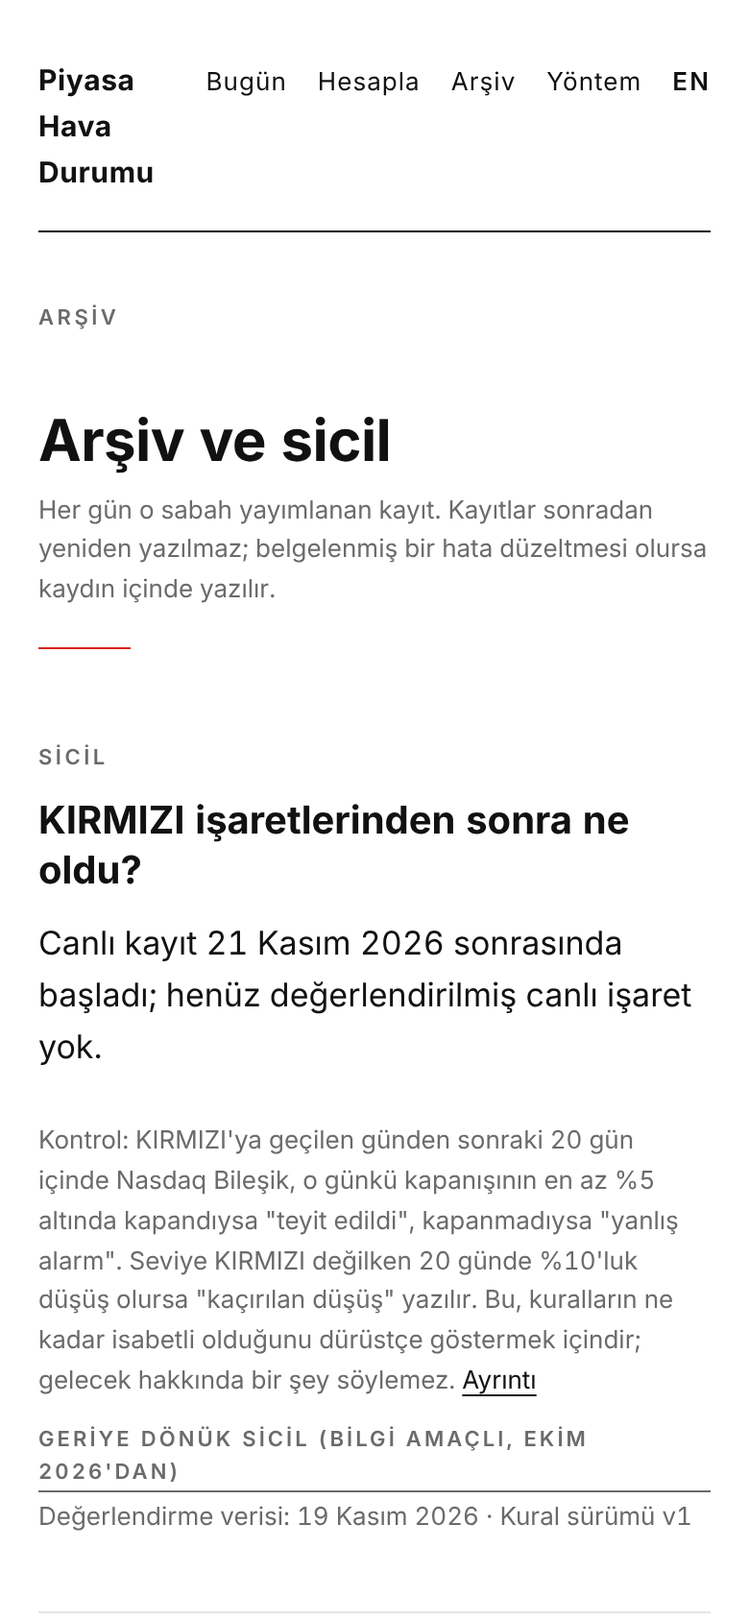
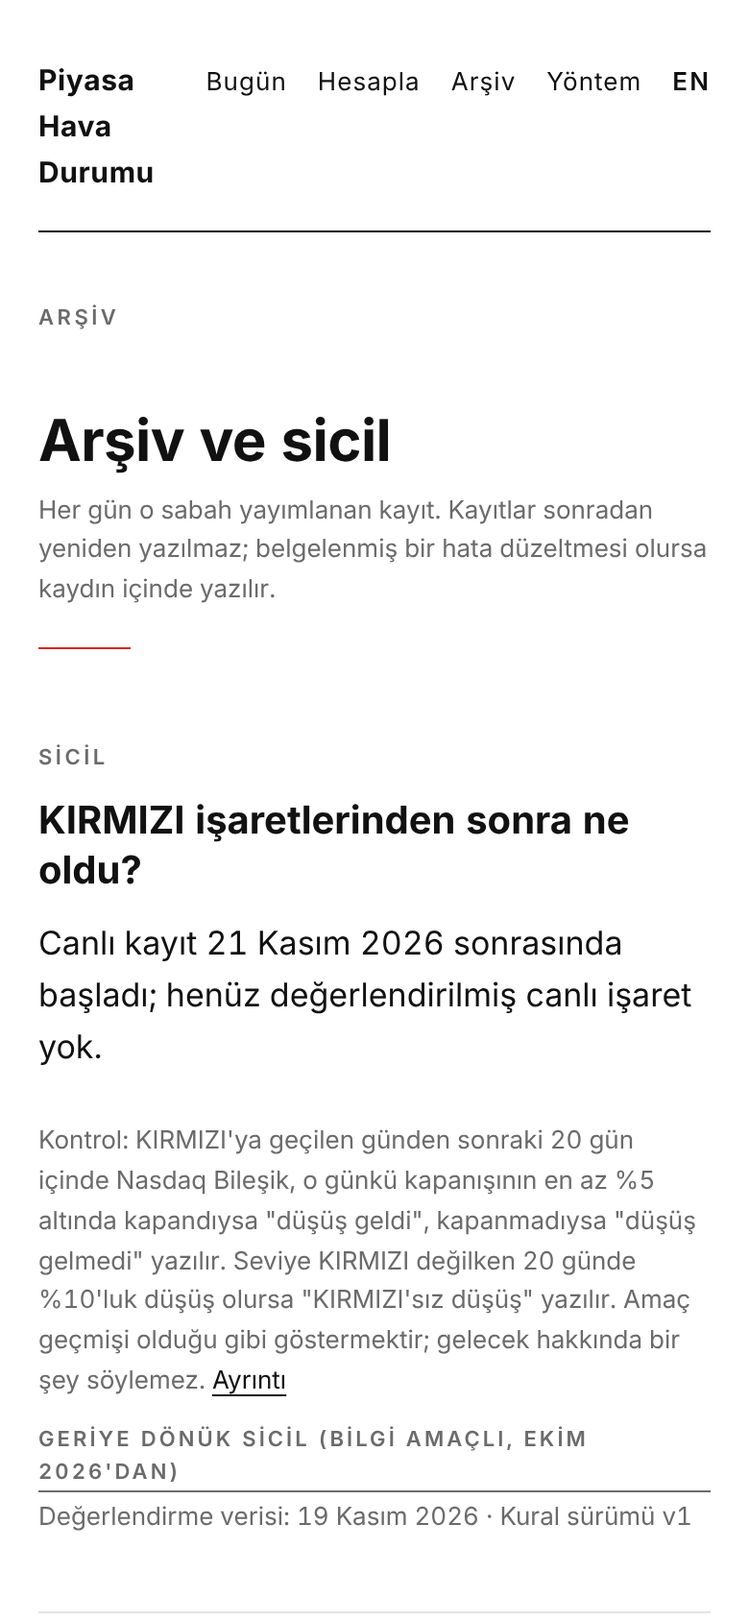
Home order (TL first), neutral track-record words, threshold rationale + level distribution, trimmed questions, v2 rules draft
Claude-Session: https://claude.ai/code/session_01HYDefgn5NWFqFd8ndNssHq

Changed region(s): [[0.0615, 0.7393, 0.9231, 0.8626]]

diff --git a/piyasa/yontem.html b/piyasa/yontem.html
@@ -3,7 +3,7 @@
 <head>
 <meta charset="utf-8">
 <meta name="viewport" content="width=device-width,initial-scale=1">
-<meta http-equiv="Content-Security-Policy" content="default-src 'self'; script-src 'self'; style-src 'self'; font-src 'self'; img-src 'self' data:; base-uri 'self'; form-action 'none'; object-src 'none'">
+<meta http-equiv="Content-Security-Policy" content="default-src 'self'; script-src 'self'; connect-src 'self' https://raw.githubusercontent.com; style-src 'self'; font-src 'self'; img-src 'self' data:; base-uri 'self'; form-action 'none'; object-src 'none'">
 <meta name="referrer" content="strict-origin-when-cross-origin">
 <title>Yöntem — Piyasa Hava Durumu</title>
 <meta name="description" content="Piyasa Hava Durumu makro hava seviyesinin dokuz kuralı, veri kaynakları ve sürüm kuralı, düz Türkçe ile.">
@@ -29,6 +29,7 @@
 <script src="i18n.js"></script>
 <script src="i18n-pages.js"></script>
 <script src="config.js" defer></script>
+<script src="yontem-stats.js" defer></script>
 </head>
 <body>
 <div class="wrap">
@@ -75,6 +76,21 @@
     </section>
 
     <section>
+      <h2 id="esikler">Eşikler neden bu değerler?</h2>
+      <p>Eşikler geçmiş veriye göre en iyi sonucu verecek şekilde ayarlanmadı. Piyasada yaygın kullanılan, yuvarlak ve anlaşılır değerler seçildi, sonra donduruldu. Amaç "geçmişi en iyi açıklayan" değil, önceden bilinen ve değişmeyen bir ölçü.</p>
+      <ul>
+        <li><strong>20 gün:</strong> yaklaşık bir aylık işlem süresi. Tek günlük oynamaları süzer, birkaç aylık eğilimi beklemez.</li>
+        <li><strong>VIX 18:</strong> VIX'in uzun dönem ortalaması 18–20 civarındadır; 18'in üstü piyasada gerginliğin ortalamanın üstünde olduğunu gösterir.</li>
+        <li><strong>Dolar endeksi %1, Nasdaq %3, altın %3:</strong> bu varlıkların bir ayda "olağan oynama" sayılabilecek aralığının biraz üstü.</li>
+        <li><strong>Reel faiz 0,15 puan, kredi primi 0,25 puan:</strong> bir ayda dikkat çeken ama nadir olmayan bir sıkılaşma.</li>
+        <li><strong>Petrol +%10 / −%15:</strong> petrol daha oynak olduğu için daha geniş eşik.</li>
+        <li><strong>Seviye sınırları (0–2, 3–4, 5+):</strong> dokuz kuraldan yarısından fazlası işaret verince KIRMIZI.</li>
+      </ul>
+      <p>Bir eşik değişirse kural sürümü değişir (v1.1, v2…); eski günler eski sürümle kalır.</p>
+      <p id="dagilim" class="mute" data-noi18n>Seviye dağılımı yükleniyor…</p>
+    </section>
+
+    <section>
       <h2>Sürüm ve kayıt</h2>
       <p>Kurallar sabittir. Bir eşik değişirse yeni bir sürüm (v1.1, v2 …) yayımlanır; daha önce yayımlanmış skorlar yeniden yazılmaz. 21 Kasım 2026'dan önceki günler sonradan hesaplanmıştır ve "geriye dönük" olarak işaretlenir; o tarihten sonraki günler "canlı" kayıttır.</p>
       <p>Bir veri 3 iş gününden eskiyse (haftalık Fed verisi için 10 gün) ya da derleme başarısız olursa sayfa "güncellenmedi" yazar ve son iyi veriyi gösterir.</p>
@@ -87,16 +103,16 @@
     </section>
 
     <section>
-      <h2 id="sicil">Sicil: KIRMIZI işaretleri ne kadar isabetli?</h2>
-      <p>Bir kuralın değeri, yanıldığı günlerle birlikte görülünce anlaşılır. Sicil bu yüzden yanlış alarmları da listeler. Kontrol sabittir ve kurallar gibi sürümlüdür:</p>
+      <h2 id="sicil">Sicil: KIRMIZI günlerinden sonra ne oldu?</h2>
+      <p>Bir kuralın değeri, yanıldığı günlerle birlikte görülünce anlaşılır. Sicil bu yüzden arkasından düşüş gelmeyen KIRMIZI günlerini de listeler. Kontrol sabittir ve kurallar gibi sürümlüdür:</p>
       <ul>
         <li><strong>İşaret:</strong> yayımlanan seviyenin KIRMIZI'ya geçtiği gün.</li>
-        <li><strong>Teyit edildi:</strong> sonraki 20 gün içinde Nasdaq Bileşik endeksi, işaret günündeki kapanışının en az %5 altında kapandı.</li>
-        <li><strong>Yanlış alarm:</strong> 20 gün geçti ve bu düşüş olmadı.</li>
+        <li><strong>Düşüş geldi:</strong> sonraki 20 gün içinde Nasdaq Bileşik endeksi, işaret günündeki kapanışının en az %5 altında kapandı.</li>
+        <li><strong>Düşüş gelmedi:</strong> 20 gün geçti ve bu düşüş olmadı.</li>
         <li><strong>Bekliyor:</strong> 20 gün henüz dolmadı.</li>
-        <li><strong>Kaçırılan düşüş:</strong> Nasdaq Bileşik son 20 günün en yüksek kapanışından en az %10 aşağıda kapandı ve bu 20 günün hiçbirinde seviye KIRMIZI değildi.</li>
+        <li><strong>KIRMIZI'sız düşüş:</strong> Nasdaq Bileşik son 20 günün en yüksek kapanışından en az %10 aşağıda kapandı ve bu 20 günün hiçbirinde seviye KIRMIZI değildi.</li>
       </ul>
-      <p>Canlı sicil 21 Kasım 2026'dan sonra yayımlanan kayıtlarla başlar. Daha önceki günler sonradan hesaplandığı için ayrı ve "bilgi amaçlı" gösterilir. Nasdaq Bileşik lisanslı bir endeks olduğundan değerleri yayımlanmaz; yalnız sonuç kelimesi yayımlanır. Bu kontrol bir isabet ölçüsüdür; gelecek hakkında bir şey söylemez ve tavsiye değildir.</p>
+      <p>Canlı sicil 21 Kasım 2026'dan sonra yayımlanan kayıtlarla başlar. Daha önceki günler sonradan hesaplandığı için ayrı ve "bilgi amaçlı" gösterilir. Nasdaq Bileşik lisanslı bir endeks olduğundan değerleri yayımlanmaz; yalnız sonuç kelimesi yayımlanır. Bu kontrol yalnız geçmişi kaydeder; gelecek hakkında bir şey söylemez ve tavsiye değildir.</p>
     </section>
 
     <section>
@@ -172,6 +188,21 @@
     </section>
 
     <section>
+      <h2 id="en-esikler">Why these thresholds?</h2>
+      <p>The thresholds were not tuned to fit past data. Common, round, easy-to-read levels were chosen and then frozen. The aim is a measure that is known in advance and does not change, not one that "best explains the past".</p>
+      <ul>
+        <li><strong>20 days:</strong> about one month of trading. It filters one-day noise without waiting for multi-month trends.</li>
+        <li><strong>VIX 18:</strong> the long-run VIX average is around 18–20; above 18 means tension is above average.</li>
+        <li><strong>Dollar index 1%, Nasdaq 3%, gold 3%:</strong> a little beyond what counts as a normal one-month move for these assets.</li>
+        <li><strong>Real yield 0.15 points, credit spread 0.25 points:</strong> a tightening that stands out within a month but is not rare.</li>
+        <li><strong>Oil +10% / −15%:</strong> oil is more volatile, so the band is wider.</li>
+        <li><strong>Level bands (0–2, 3–4, 5+):</strong> RED when more than half of the nine rules signal.</li>
+      </ul>
+      <p>If a threshold changes, the rules version changes (v1.1, v2…); past days keep the version they were published with.</p>
+      <p id="en-dagilim" class="mute">Loading level distribution…</p>
+    </section>
+
+    <section>
       <h2>Versions and record</h2>
       <p>The rules are fixed. If a threshold changes, a new version (v1.1, v2 …) is published; scores already published are never rewritten. Days before 21 November 2026 were computed afterwards and are marked "retro"; days after that date are the "live" record.</p>
       <p>If an input is older than 3 business days (10 days for the weekly Fed data) or the build fails, the page says "not updated" and shows the last good data.</p>
@@ -184,16 +215,16 @@
     </section>
 
     <section>
-      <h2 id="en-sicil">Track record: how accurate are RED signals?</h2>
-      <p>A rule's value shows only together with the days it was wrong, so the track record lists false alarms too. The check is fixed and versioned like the rules:</p>
+      <h2 id="en-sicil">Track record: what happened after RED days?</h2>
+      <p>A rule's value shows only together with the days it was wrong, so the track record also lists RED days that were not followed by a fall. The check is fixed and versioned like the rules:</p>
       <ul>
         <li><strong>Signal:</strong> the day the published level switched to RED.</li>
-        <li><strong>Confirmed:</strong> within the next 20 days the Nasdaq Composite closed at least 5% below its close on the signal day.</li>
-        <li><strong>False alarm:</strong> 20 days passed without that fall.</li>
+        <li><strong>Fall followed:</strong> within the next 20 days the Nasdaq Composite closed at least 5% below its close on the signal day.</li>
+        <li><strong>No fall followed:</strong> 20 days passed without that fall.</li>
         <li><strong>Pending:</strong> 20 days have not passed yet.</li>
-        <li><strong>Missed fall:</strong> the Nasdaq Composite closed at least 10% below its highest close of the last 20 days and the level was not RED on any of those 20 days.</li>
+        <li><strong>Fall without RED:</strong> the Nasdaq Composite closed at least 10% below its highest close of the last 20 days and the level was not RED on any of those 20 days.</li>
       </ul>
-      <p>The live record starts with records published after 21 November 2026. Earlier days were computed afterwards and are shown separately "for information". The Nasdaq Composite is a licensed index, so its values are not published; only the result word is. This check measures accuracy; it says nothing about the future and is not advice.</p>
+      <p>The live record starts with records published after 21 November 2026. Earlier days were computed afterwards and are shown separately "for information". The Nasdaq Composite is a licensed index, so its values are not published; only the result word is. This check only records the past; it says nothing about the future and is not advice.</p>
     </section>
 
     <section>

diff --git a/piyasa/index.html b/piyasa/index.html
@@ -46,10 +46,23 @@
   </header>
   <div class="band" id="band" aria-label="Piyasa bandı: 1 günlük değişim" role="region" hidden></div>
   <main id="main">
+    <section aria-labelledby="l-tl">
+      <p class="label" id="l-tl">TL tarafı</p>
+      <p class="tl-link top"><a href="hesapla.html">Benim pozisyonum ne durumda? Maliyetini gir, başa baş fiyatını gör</a></p>
+      <div id="tl" class="tl"><p class="mute small">TL verisi yükleniyor…</p></div>
+    </section>
+
+    <section id="s-ozet" aria-labelledby="l-ozet" hidden>
+      <p class="label" id="l-ozet">Günün özeti</p>
+      <div id="ozet"></div>
+      <p class="mute small" id="ozet-meta"></p>
+    </section>
+
+    <hr class="rule-top">
     <p class="label" id="kicker">Makro hava</p>
     <h1 id="headline"><span class="dot" aria-hidden="true"></span><span id="headline-text"><!--S:headline-->Veri yükleniyor…<!--/S--></span></h1>
     <p class="meta" id="meta"><!--S:meta--><!--/S--></p>
-    <p class="frame">Seviye, dokuz piyasa göstergesinden kaçının stres işareti verdiğini özetler; ne yapılacağını söylemez ve geçmişte yanlış alarm da vermiştir (<a href="arsiv.html#sicil">Sicil</a>). Makro veriler ABD kaynaklıdır ve bir iş günü gecikmeli gelir.</p>
+    <p class="frame">Seviye, dokuz piyasa göstergesinden kaçının stres işareti verdiğini özetler; ne yapılacağını söylemez ve KIRMIZI günlerinin hepsini bir düşüş izlemedi (<a href="arsiv.html#sicil">Sicil</a>). Makro veriler ABD kaynaklıdır ve bir iş günü gecikmeli gelir.</p>
     <div class="datepick" id="datepick">
       <label for="tarih" class="label">Tarih seç</label>
       <input type="date" id="tarih" min="2026-10-01" aria-describedby="tarih-not">
@@ -70,53 +83,22 @@
       </details>
     </section>
 
-    <section aria-labelledby="l-tl">
-      <p class="label" id="l-tl">TL tarafı</p>
-      <div id="tl" class="tl"><p class="mute small">TL verisi yükleniyor…</p></div>
-      <p class="tl-link"><a href="hesapla.html">Benim pozisyonum ne durumda?</a></p>
-    </section>
-
-    <section id="s-ozet" aria-labelledby="l-ozet" hidden>
-      <p class="label" id="l-ozet">Günün özeti</p>
-      <div id="ozet"></div>
-      <p class="mute small" id="ozet-meta"></p>
-    </section>
-
-    <section aria-labelledby="l-hafta">
-      <p class="label" id="l-hafta">Bu hafta</p>
-      <p class="hafta-link"><a href="hafta.html" id="hafta-link">Dünyada bu hafta: geçmiş yıllarda bu hafta ne oldu?</a></p>
-      <p class="mute small">Her pazartesi ve cuma: aynı haftanın son 10 yıldaki seyri, haftanın veri takvimi ve ekonomi tarihinden notlar.</p>
-    </section>
-
-    <section aria-labelledby="l-konum">
-      <p class="label" id="l-konum">Ortalamalar</p>
-      <p class="konum-link"><a href="konum.html">Fiyatlar ortalamalarına göre nerede?</a></p>
-      <p class="mute small">BIST 100, gram altın, dolar/TL, ABD fonları, Bitcoin, Ethereum ve büyük şirketler: 20, 50 ve 200 günlük ortalamaya göre konum.</p>
-    </section>
-
-    <section aria-labelledby="l-cmp">
-      <p class="label" id="l-cmp">Grafik</p>
-      <p class="konum-link"><a href="karsilastir.html">Grafikte karşılaştır</a></p>
-      <p class="mute small">Altın, gümüş, dolar/TL, petrol, BIST 100, Bitcoin ve ABD fonlarından 2–3 tanesini aynı grafikte gör ya da birbirine oranla (ör. altın/gümüş oranı).</p>
-    </section>
-
-    <section aria-labelledby="l-hareket">
-      <p class="label" id="l-hareket">Günün hareketlileri</p>
-      <p class="konum-link"><a href="hareket.html">Bugün piyasada neler oldu?</a></p>
-      <p class="mute small">Borsa İstanbul, ABD ve kriptoda en çok yükselen ve düşen isimler, olağandışı hacim ve hareketler.</p>
-    </section>
-
-    <section aria-labelledby="l-dunya">
-      <p class="label" id="l-dunya">Dünya</p>
-      <p class="konum-link"><a href="dunya.html">Dünyada durum ne?</a></p>
-      <p class="mute small">Japonya, Kore, Çin, Hong Kong, Tayvan, Brezilya, emtialar ve günün başlıkları. Sayfa yalnız açılınca yüklenir.</p>
-    </section>
-
     <section aria-labelledby="l-sor">
-      <p class="label" id="l-sor">Sor</p>
+      <p class="label" id="l-sor">Sorular</p>
       <div class="questions" id="questions"></div>
       <div class="answer" id="answer" aria-live="polite"></div>
       <p class="mute small">Cevaplar her sabah verilerle birlikte hazırlanır; sayılar doğrudan veriden gelir.</p>
+    </section>
+
+    <section aria-labelledby="l-daha">
+      <p class="label" id="l-daha">Daha fazlası</p>
+      <ul class="more">
+        <li><a href="hareket.html">Bugün piyasada neler oldu?</a> <span class="mute small">Borsa İstanbul, ABD ve kriptoda günün hareketlileri.</span></li>
+        <li><a href="dunya.html">Dünyada durum ne?</a> <span class="mute small">Asya, Brezilya, emtialar ve günün başlıkları.</span></li>
+        <li><a href="hafta.html" id="hafta-link">Dünyada bu hafta</a> <span class="mute small">Geçmiş yıllarda bu hafta ne oldu (pazartesi ve cuma).</span></li>
+        <li><a href="konum.html">Fiyatlar ortalamalarına göre nerede?</a> <span class="mute small">20, 50 ve 200 günlük ortalamaya göre konum.</span></li>
+        <li><a href="karsilastir.html">Grafikte karşılaştır</a> <span class="mute small">2–3 varlık aynı grafikte ya da oran olarak.</span></li>
+      </ul>
     </section>
   </main>
   <aside class="dside" id="dunya-side" aria-label="Dünya özeti" hidden></aside>

diff --git a/piyasa/arsiv.js b/piyasa/arsiv.js
@@ -19,7 +19,9 @@
     TITLES = { L1: "Stablecoin supply", L2: "Fed net liquidity", L3: "Real yield", D1: "Dollar index",
       K1: "Credit risk premium", K2: "Volatility (VIX)", K3: "Nasdaq Composite", N1: "Gold and the dollar", P1: "Oil" };
   }
-  var RESULT_EN = { "teyit edildi": "confirmed", "yanlış alarm": "false alarm", "bekliyor": "pending", "kaçırılan": "missed" };
+  // Display words (Boran, 22 Kasım: neutral wording). sicil.json keeps its stored codes; only the label changes.
+  var RESULT_TR = { "teyit edildi": "düşüş geldi", "yanlış alarm": "düşüş gelmedi", "bekliyor": "bekliyor", "kaçırılan": "KIRMIZI'sız düşüş", "kaçırılan düşüş": "KIRMIZI'sız düşüş" };
+  var RESULT_EN = { "teyit edildi": "fall followed", "yanlış alarm": "no fall followed", "bekliyor": "pending", "kaçırılan": "fall without RED", "kaçırılan düşüş": "fall without RED" };
 
   function $(id) { return document.getElementById(id); }
   function el(tag, cls, text) {
@@ -113,7 +115,7 @@
       var tr = el("tr", e.result === "yanlış alarm" || e.kind === "kaçırılan" ? "miss" : "");
       tr.appendChild(el("td", "d", trDate(e.date)));
       tr.appendChild(el("td", null, e.kind === "kaçırılan" ? L("Düşüş (seviye ", "Drop (level ") + (WORD[e.level] || "—") + ")" : L("KIRMIZI'ya geçiş", "Switch to RED")));
-      tr.appendChild(el("td", "r", EN ? (RESULT_EN[e.result] || RESULT_EN[e.kind] || e.result) : e.result));
+      tr.appendChild(el("td", "r", EN ? (RESULT_EN[e.result] || RESULT_EN[e.kind] || e.result) : (RESULT_TR[e.result] || RESULT_TR[e.kind] || e.result)));
       tr.appendChild(el("td", "x", resultText(e)));
       tb.appendChild(tr);
     });
@@ -128,13 +130,13 @@
     var sm = s.summary_live || {};
     $("sicil-sum").textContent = EN ? (live.length
       ? "Live record (since " + trDate(s.freeze_date) + "): " + (sm.canli_sinyal || 0) + " switches to RED — " +
-        (sm.canli_teyit || 0) + " confirmed, " + (sm.canli_yanlis_alarm || 0) + " false alarms, " +
-        (sm.canli_bekliyor || 0) + " pending; " + (sm.canli_kacirilan || 0) + " missed drops."
+        (sm.canli_teyit || 0) + " followed by a fall, " + (sm.canli_yanlis_alarm || 0) + " not followed by a fall, " +
+        (sm.canli_bekliyor || 0) + " pending; " + (sm.canli_kacirilan || 0) + " falls without RED."
       : "The live record started after " + trDate(s.freeze_date) + "; no live signal has been evaluated yet.")
       : live.length
       ? "Canlı kayıt (" + trDate(s.freeze_date) + "'ten beri): " + (sm.canli_sinyal || 0) + " KIRMIZI geçişi — " +
-        (sm.canli_teyit || 0) + " teyit edildi, " + (sm.canli_yanlis_alarm || 0) + " yanlış alarm, " +
-        (sm.canli_bekliyor || 0) + " bekliyor; " + (sm.canli_kacirilan || 0) + " kaçırılan düşüş."
+        (sm.canli_teyit || 0) + " ardından düşüş geldi, " + (sm.canli_yanlis_alarm || 0) + " düşüş gelmedi, " +
+        (sm.canli_bekliyor || 0) + " bekliyor; " + (sm.canli_kacirilan || 0) + " KIRMIZI'sız düşüş."
       : "Canlı kayıt " + trDate(s.freeze_date) + " sonrasında başladı; henüz değerlendirilmiş canlı işaret yok.";
     sicilTable(live, $("sicil-live"));
     sicilTable(retro, $("sicil-retro"));

diff --git a/piyasa/yontem-stats.js b/piyasa/yontem-stats.js
@@ -1,0 +1,49 @@
+/* Piyasa Hava Durumu — level distribution on the method page. Reads data/site/history.csv; DOM APIs only. */
+(function () {
+  "use strict";
+  var RAW = "https://raw.githubusercontent.com/samiboran/sweeplab/data-feed/data/site/";
+  var DATA = /\.github\.io$/.test(location.hostname) ? RAW : "data/site/";
+  var LV = ["YESIL", "SARI", "KIRMIZI"];
+  var TR = { YESIL: "YEŞİL", SARI: "SARI", KIRMIZI: "KIRMIZI" }, EN = { YESIL: "GREEN", SARI: "YELLOW", KIRMIZI: "RED" };
+  var MTR = ["Ocak", "Şubat", "Mart", "Nisan", "Mayıs", "Haziran", "Temmuz", "Ağustos", "Eylül", "Ekim", "Kasım", "Aralık"];
+  var MEN = ["January", "February", "March", "April", "May", "June", "July", "August", "September", "October", "November", "December"];
+  function fmt(iso, en) {
+    var m = /^(\d{4})-(\d{2})-(\d{2})$/.exec(iso || "");
+    return m ? (+m[3]) + " " + (en ? MEN : MTR)[+m[2] - 1] + " " + m[1] : "—";
+  }
+  function count(rows) {
+    var c = { YESIL: 0, SARI: 0, KIRMIZI: 0 }, n = 0;
+    rows.forEach(function (r) { if (c.hasOwnProperty(r.level)) { c[r.level]++; n++; } });
+    return { c: c, n: n };
+  }
+  function line(k, en) {
+    if (!k.n) return en ? "none yet" : "henüz yok";
+    return LV.map(function (l) {
+      var pct = Math.round(k.c[l] / k.n * 100);
+      return (en ? EN[l] : TR[l]) + " " + k.c[l] + (en ? " days (" + pct + "%)" : " gün (%" + pct + ")");
+    }).join(", ");
+  }
+  function render(rows) {
+    var retro = count(rows.filter(function (r) { return r.mode !== "live"; }));
+    var live = count(rows.filter(function (r) { return r.mode === "live"; }));
+    var first = rows.length ? rows[0].date : "";
+    var tr = document.getElementById("dagilim"), en = document.getElementById("en-dagilim");
+    if (tr) tr.textContent = "Yayımlanan seviyeler (" + fmt(first) + " ile bugün arası) — geriye dönük: " + line(retro) +
+      ". Canlı: " + line(live) + ". Kısa bir dönem olduğu için oranlar genellenemez.";
+    if (en) en.textContent = "Published levels so far (since " + fmt(first, true) + ") — retrospective: " + line(retro, true) +
+      ". Live: " + line(live, true) + ". The period is short, so the shares do not generalise.";
+  }
+  fetch(DATA + "history.csv", { cache: "no-cache", credentials: "omit", referrerPolicy: "no-referrer" })
+    .then(function (r) { if (!r.ok) throw new Error(r.status); return r.text(); })
+    .then(function (t) {
+      var lines = t.trim().split(/\r?\n/), head = lines.shift().split(",");
+      var iD = head.indexOf("date"), iM = head.indexOf("mode"), iL = head.indexOf("level");
+      render(lines.map(function (l) { var c = l.split(","); return { date: c[iD], mode: c[iM], level: c[iL] }; })
+        .filter(function (r) { return /^\d{4}-\d{2}-\d{2}$/.test(r.date || ""); }));
+    })
+    .catch(function () {
+      var tr = document.getElementById("dagilim"), en = document.getElementById("en-dagilim");
+      if (tr) tr.textContent = "Seviye dağılımı şu an yüklenemedi; günler Arşiv sayfasında.";
+      if (en) en.textContent = "The level distribution could not be loaded; see the Archive page.";
+    });
+})();

diff --git a/piyasa/i18n.js b/piyasa/i18n.js
@@ -17,8 +17,8 @@
   var D = {
     // masthead, nav, footer
     "İstatistik yalan söylemez": "Statistics don't lie",
-    "Seviye, dokuz piyasa göstergesinden kaçının stres işareti verdiğini özetler; ne yapılacağını söylemez ve geçmişte yanlış alarm da vermiştir (":
-      "The level summarises how many of nine market indicators show stress; it does not say what to do, and it has given false alarms before (",
+    "Seviye, dokuz piyasa göstergesinden kaçının stres işareti verdiğini özetler; ne yapılacağını söylemez ve KIRMIZI günlerinin hepsini bir düşüş izlemedi (":
+      "The level summarises how many of nine market indicators show stress; it does not say what to do, and not every RED day was followed by a fall (",
     "Sicil": "Track record",
     "). Makro veriler ABD kaynaklıdır ve bir iş günü gecikmeli gelir.": "). Macro inputs come from US sources and arrive one business day late.",
     "Site": "Site", "Hesapla": "Calculator", "Arşiv": "Archive", "Yöntem": "Method", "Bugün": "Today",
@@ -55,7 +55,14 @@
     "Dünya": "World", "Dünyada durum ne?": "How is the world doing?",
     "Japonya, Kore, Çin, Hong Kong, Tayvan, Brezilya, emtialar ve günün başlıkları. Sayfa yalnız açılınca yüklenir.":
       "Japan, Korea, China, Hong Kong, Taiwan, Brazil, commodities and the day's headlines. Loaded only when opened.",
-    "Sor": "Ask",
+    "Sor": "Ask", "Sorular": "Questions", "Daha fazlası": "More",
+    "Dünyada bu hafta": "This week in the world",
+    "Benim pozisyonum ne durumda? Maliyetini gir, başa baş fiyatını gör": "How is my position doing? Enter your cost, see your breakeven price",
+    "Borsa İstanbul, ABD ve kriptoda günün hareketlileri.": "Today's movers on Borsa Istanbul, in the US and in crypto.",
+    "Asya, Brezilya, emtialar ve günün başlıkları.": "Asia, Brazil, commodities and today's headlines.",
+    "Geçmiş yıllarda bu hafta ne oldu (pazartesi ve cuma).": "What happened this week in past years (Mondays and Fridays).",
+    "20, 50 ve 200 günlük ortalamaya göre konum.": "Position versus the 20-, 50- and 200-day averages.",
+    "2–3 varlık aynı grafikte ya da oran olarak.": "2–3 assets on one chart, or as a ratio.",
     "Cevaplar her sabah verilerle birlikte hazırlanır; sayılar doğrudan veriden gelir.":
       "Answers are prepared every morning with the data; every number comes straight from the data.",
     "Dünya özeti": "World summary",

diff --git a/piyasa/i18n-pages.js b/piyasa/i18n-pages.js
@@ -27,8 +27,8 @@
     "Sicil": "Track record",
     "KIRMIZI işaretlerinden sonra ne oldu?": "What happened after RED signals?",
     "Sicil yükleniyor…": "Loading track record…",
-    "Kontrol: KIRMIZI'ya geçilen günden sonraki 20 gün içinde Nasdaq Bileşik, o günkü kapanışının en az %5 altında kapandıysa \"teyit edildi\", kapanmadıysa \"yanlış alarm\". Seviye KIRMIZI değilken 20 günde %10'luk düşüş olursa \"kaçırılan düşüş\" yazılır. Bu, kuralların ne kadar isabetli olduğunu dürüstçe göstermek içindir; gelecek hakkında bir şey söylemez.":
-      "Check: if within 20 days of a switch to RED the Nasdaq Composite closed at least 5% below that day's close, the signal is \"confirmed\"; otherwise it is a \"false alarm\". A 10% drop within 20 days while the level was not RED is listed as a \"missed drop\". This shows honestly how accurate the rules have been; it says nothing about the future.",
+    "Kontrol: KIRMIZI'ya geçilen günden sonraki 20 gün içinde Nasdaq Bileşik, o günkü kapanışının en az %5 altında kapandıysa \"düşüş geldi\", kapanmadıysa \"düşüş gelmedi\" yazılır. Seviye KIRMIZI değilken 20 günde %10'luk düşüş olursa \"KIRMIZI'sız düşüş\" yazılır. Amaç geçmişi olduğu gibi göstermektir; gelecek hakkında bir şey söylemez.":
+      "Check: if within 20 days of a switch to RED the Nasdaq Composite closed at least 5% below that day's close, the entry says \"fall followed\"; otherwise \"no fall followed\". A 10% drop within 20 days while the level was not RED is listed as \"fall without RED\". The aim is to show the past as it was; it says nothing about the future.",
     "Geriye dönük sicil (bilgi amaçlı, Ekim 2026'dan)": "Retro track record (for information, from October 2026)",
     "Bu günler kurallar donmadan önce, sonradan hesaplandı. Canlı sicile sayılmaz.":
       "These days were computed afterwards, before the rules were frozen. They do not count towards the live record.",

diff --git a/piyasa/arsiv.html b/piyasa/arsiv.html
@@ -52,7 +52,7 @@
       <h2 class="sh">KIRMIZI işaretlerinden sonra ne oldu?</h2>
       <p id="sicil-sum"><!--S:sicil-sum-->Sicil yükleniyor…<!--/S--></p>
       <div id="sicil-live" class="tablewrap"></div>
-      <p class="mute small">Kontrol: KIRMIZI'ya geçilen günden sonraki 20 gün içinde Nasdaq Bileşik, o günkü kapanışının en az %5 altında kapandıysa "teyit edildi", kapanmadıysa "yanlış alarm". Seviye KIRMIZI değilken 20 günde %10'luk düşüş olursa "kaçırılan düşüş" yazılır. Bu, kuralların ne kadar isabetli olduğunu dürüstçe göstermek içindir; gelecek hakkında bir şey söylemez. <a href="yontem.html#sicil">Ayrıntı</a></p>
+      <p class="mute small">Kontrol: KIRMIZI'ya geçilen günden sonraki 20 gün içinde Nasdaq Bileşik, o günkü kapanışının en az %5 altında kapandıysa "düşüş geldi", kapanmadıysa "düşüş gelmedi" yazılır. Seviye KIRMIZI değilken 20 günde %10'luk düşüş olursa "KIRMIZI'sız düşüş" yazılır. Amaç geçmişi olduğu gibi göstermektir; gelecek hakkında bir şey söylemez. <a href="yontem.html#sicil">Ayrıntı</a></p>
       <div id="sicil-retro-wrap" hidden>
         <details class="wk-d">
           <summary>Geriye dönük sicil (bilgi amaçlı, Ekim 2026'dan)</summary>

diff --git a/piyasa/style.css b/piyasa/style.css
@@ -348,3 +348,10 @@ html[data-ui-lang="en"] [data-lang="en"]{display:block}
 .band-x{flex-wrap:wrap;column-gap:6px;row-gap:0}}
 .frame{margin:6px 0 10px;font-size:13px;line-height:1.5;color:var(--mute);max-width:62ch}
 .frame a{color:inherit}
+/* Home "Daha fazlası": one line per page instead of five sections */
+ul.more{list-style:none;margin:0;padding:0}
+ul.more li{padding:8px 0;border-top:1px solid var(--rule)}
+ul.more li:first-child{border-top:0}
+ul.more li .small{display:block;margin-top:2px}
+hr.rule-top{border:0;border-top:1px solid var(--rule);margin:28px 0 20px}
+.tl-link.top{margin:0 0 18px;font-size:17px;font-weight:600}

diff --git a/piyasa/app.js b/piyasa/app.js
@@ -166,7 +166,8 @@
     var ans = (EN && Array.isArray(d.answers_en) && d.answers_en.length) ? d.answers_en : (d.answers || []);
     if (EN && ans === d.answers_en) qs.setAttribute("data-noi18n", ""); else qs.removeAttribute("data-noi18n");
     answersEn = EN && ans === d.answers_en;
-    ans.forEach(function (q) {
+    // The rules list above already says which rules signal; keep only questions that add something.
+    ans.filter(function (q) { return q && q.id !== "isaretler"; }).forEach(function (q) {
       var b = el("button", "q", q.q);
       b.type = "button";
       b.setAttribute("aria-pressed", "false");

diff --git a/tools/build_static.py b/tools/build_static.py
@@ -239,7 +239,7 @@ def build(dist, data=None, base=None):
     if os.path.exists(sp):
         s = json.load(open(sp, encoding="utf-8")).get("summary_live", {})
         doc = fill(doc, "sicil-sum", e(f"Canlı kayıt: {s.get('canli_sinyal', 0)} KIRMIZI geçişi, "
-                                       f"{s.get('canli_teyit', 0)} teyit, {s.get('canli_yanlis_alarm', 0)} yanlış alarm, "
+                                       f"{s.get('canli_teyit', 0)} ardından düşüş geldi, {s.get('canli_yanlis_alarm', 0)} düşüş gelmedi, "
                                        f"{s.get('canli_bekliyor', 0)} bekliyor."))
     open(ap, "w", encoding="utf-8").write(doc)
 

diff --git a/docs/SITE_ROADMAP.md b/docs/SITE_ROADMAP.md
@@ -363,3 +363,4 @@ veri) yayımlanır; puanlama kodu (`tools/`), ham girdiler (`data/derivs`,
 - **2026-11-22 (Boran ile canlı, 7.)** — Geri bildirim bağlantısı: altbilgide "Öneri ve hata bildir" (`config.js` → `feedback.email`; boşsa görünmez). Yalnız `mailto:` açar (form, izleyici, çerez yok), konu + sayfa yolu hazır gelir, TR/EN. Adres Boran'ın site için açacağı e-posta — ⏸ Boran.
 - **2026-11-22 (Boran ile canlı, 8.)** — B4 gün içi yenileme (Boran isteği: saatlik değil, kritik saatler): yeni `.github/workflows/intraday.yml` hafta içi 10:30 ve 18:30 İstanbul + `research-data` bitince (~01:30) yalnız `fetch_tl.py` (üst bant, tl/compare.json) ve `build_movers.py` çalıştırır; makro seviye, dünya, hafta ve Telegram 09:00'da kalır. `build_movers.cutoff`: o günün çubuğu yalnız seans kapanınca kullanılır (`closed_after_utc`: BIST 15:20, ABD 21:10 UTC; kripto hiç) — testli. Bant notu "22 Kas 18:30 itibarıyla (~15 dk gecikmeli)" (TR/EN). Deploy işleri yeniden kullanılabilir `site-deploy.yml`'ye taşındı (daily-brief + intraday çağırır; sırrı yoksa atlanır). daily-brief data-feed push'u artık `pull --rebase` + 3 deneme. veri.html/yontem.html saatleri güncellendi. `intraday.yml` main'e birleşince çalışmaya başlar (`workflow_run` yalnız varsayılan dalda tetiklenir).
 - **2026-11-22 (Boran ile canlı, 9.)** — Dış değerlendirmeden (Opus + Sonnet) düzeltmeler: "İstatistik yalan söylemez" sloganı kaldırıldı (tüm sayfalar, config.js boş → gizli; og kartında yerine "Yatırım tavsiyesi değildir"). Mobil bant yatay kaydırma yerine 2 sütunlu ızgara (değerler kesilmiyor). Üst menüye "Hesapla" eklendi (tüm sayfalar, TR/EN). Ana sayfada seviyenin altına çerçeve cümlesi: seviye ne söyler/ne söylemez, yanlış alarm → Sicil bağlantısı, ABD verisinin bir iş günü gecikmesi. Eski önizleme görüntüleri (62 adet, bazıları "Yapım aşamasında"/örnek veri) silindi; güncel set gerçek data-feed verisiyle yeniden alındı. Kontrol edilenler: tarih seçici tr-TR'de gg.aa.yyyy (yanlış alarm — İngilizce tarayıcıdan); "Nasdaq 100" metni yalnız 21 Kasım'da üretilmiş today.json'da, kod zaten "Nasdaq Bileşik" yazıyor (bir sonraki iş günü düzelir, arşiv kayıtları yeniden yazılmaz).
+- **2026-11-22 (Boran ile canlı, 10.)** — Dış değerlendirmenin 6 önerisi (Boran onayı): (1) ana sayfa sırası: bant → TL tarafı (hesaplayıcı bağlantısı en üstte) → Günün özeti → Makro hava + kurallar → Sorular → "Daha fazlası" (5 sayfa tek listede); (2) sicil etiketleri nötr: "düşüş geldi / düşüş gelmedi / KIRMIZI'sız düşüş" (sicil.json kodları aynı, yalnız görünen kelime; yontem/arsiv/statik özet TR+EN); (3) yontem.html "Eşikler neden bu değerler?" (ayarlanmadı, yuvarlak ve yaygın değerler, donduruldu) + history.csv'den seviye dağılımı (`yontem-stats.js`, CSP connect-src eklendi); (4) "Sorular" bölümünden kural listesini tekrarlayan soru çıkarıldı; (5) Türkiye bileşeni → `docs/MAKRO_KURALLAR_v2_TASLAK.md` (yürürlükte değil; ⏸ Boran: EVDS API anahtarı + eşik kararı); (6) Dünya/Hareket ana sayfada tek satıra indi. Not: Agência Brasil ekonomi akışından ekonomi dışı başlık (Mega-Sena) gelebiliyor — sonraki iş: başlık filtresi.

diff --git a/docs/MAKRO_KURALLAR_v2_TASLAK.md b/docs/MAKRO_KURALLAR_v2_TASLAK.md
@@ -1,0 +1,28 @@
+# Makro hava kuralları v2 — TASLAK (yürürlükte değil)
+
+Durum: öneri. v1 (`docs/MAKRO_KURALLAR_v1.md`) yürürlükte kalır; yayımlanmış skorlar yeniden yazılmaz.
+Neden: dış değerlendirmede (22 Kasım 2026, iki bağımsız model) "makro hava tamamen ABD verisi; TL yatırımcısına
+ne anlattığı belirsiz" eleştirisi. Boran 22 Kasım'da yönü onayladı; zamanlama acil değil.
+
+## Önerilen ek başlık: Türkiye (0–2 puan)
+
+| Kod | Kural (taslak) | Kaynak | Not |
+|---|---|---|---|
+| T1 | Dolar/TL 20 günde olağan seyrinin belirgin üstünde arttı | TCMB EVDS (resmî gösterge kuru) | TL'nin "planlı" değer kaybı her ay var; eşik bunun üstünü yakalamalı (ör. 20 günlük artış, önceki 12 ayın 20 günlük artışlarının en yüksek %10'una girdiyse). |
+| T2 | BIST 100 dolar bazında 20 günde ≥ %8 düştü | BIST 100 + dolar/TL (bugün Yahoo; lisanslı kaynak gerekli) | Yalnız 0/1 ve yön kelimesi yayımlanır. |
+
+Değerlendirilip **eklenmeyenler**: Türkiye 5 yıllık CDS (serbest günlük kaynak yok), TCMB faiz kararı (olay, günlük
+seri değil; "Bu hafta" takviminde zaten var).
+
+Toplam 0–11 olur; seviye sınırları da yeniden yazılmalı (ör. 0–2 YEŞİL, 3–5 SARI, 6+ KIRMIZI). Kesin eşikler
+Boran'ın kararıdır; geçmiş veriye göre "en iyi sonucu veren" eşik aranmaz (v1 ilkesi).
+
+## Geçiş adımları
+
+1. ⏸ Boran: TCMB EVDS'ye üye ol (evds2.tcmb.gov.tr → Giriş → Üye ol), profil sayfasından API anahtarını al,
+   repo'ya `EVDS_API_KEY` sırrı olarak ekle (Settings → Secrets and variables → Actions → New repository secret).
+2. Eşikler yazılı olarak dondurulur → `docs/MAKRO_KURALLAR_v2.md` (tarih + commit).
+3. En az 4 hafta **gölge çalışma**: v2 skoru hesaplanır, yalnız data-feed'in özel tarafına yazılır, yayımlanmaz.
+4. Yayın günü: `rules_version: "v2"`. Önceki günler v1 olarak kalır; grafikte sürüm sınırı işaretli (S5'te var).
+   Sicil v1 ve v2 için ayrı tutulur.
+5. yontem.html'de Türkiye başlığı ve eşiklerin gerekçesi sade Türkçeyle (TR + EN).
